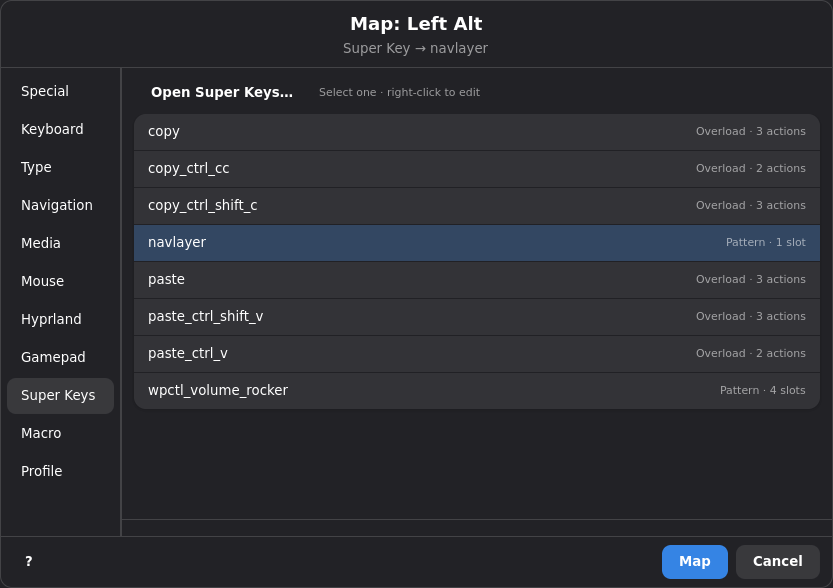
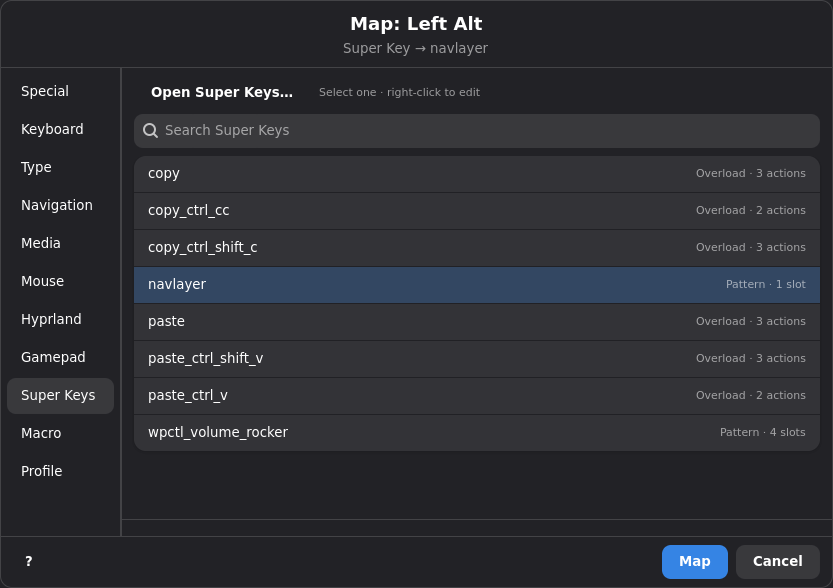
Add search bar to superkey selector tab
- Moves superkey_search_text to fuzzy_search.py for reuse
- Adds Gtk.SearchEntry with fuzzy filter to superkey tab
- Clears selection when search hides the selected row
- Updates key selector screenshot in docs

diff --git a/keymasq/gui/widgets/key_selector/superkey_tab.py b/keymasq/gui/widgets/key_selector/superkey_tab.py
@@ -8,6 +8,11 @@ gi.require_version("Gtk", "4.0")
 from gi.repository import Gtk  # pyright: ignore[reportAttributeAccessIssue]
 
 from keymasq.common.models import ActionType, MappingAction, SuperkeyConfig
+from keymasq.gui.widgets.fuzzy_search import (
+    fuzzy_query_matches,
+    install_listbox_fuzzy_filter,
+    superkey_search_text,
+)
 from keymasq.session.superkeys import SuperkeyManager
 
 from .compat import notify_session_reload_async
@@ -37,6 +42,16 @@ class SuperkeyTabMixin:
         toolbar_row.append(selection_hint)
         outer.append(toolbar_row)
 
+        self._superkey_search_entry = Gtk.SearchEntry()
+        self._superkey_search_entry.set_placeholder_text("Search Super Keys")
+        self._superkey_search_entry.set_tooltip_text(
+            "Filter Super Keys by name, description, or mode"
+        )
+        self._superkey_search_entry.set_margin_start(12)
+        self._superkey_search_entry.set_margin_end(12)
+        self._superkey_search_entry.set_margin_bottom(8)
+        outer.append(self._superkey_search_entry)
+
         scrolled = Gtk.ScrolledWindow()
         scrolled.set_policy(Gtk.PolicyType.NEVER, Gtk.PolicyType.AUTOMATIC)
         scrolled.set_vexpand(True)
@@ -48,6 +63,11 @@ class SuperkeyTabMixin:
         self._superkey_listbox.set_margin_start(12)
         self._superkey_listbox.set_margin_end(12)
         self._superkey_listbox.connect("row-selected", self._on_superkey_row_selected)
+        install_listbox_fuzzy_filter(
+            self._superkey_listbox,
+            self._superkey_search_entry,
+            after_filter_changed=self._after_superkey_search_filter_changed,
+        )
         scrolled.set_child(self._superkey_listbox)
         outer.append(scrolled)
 
@@ -102,6 +122,7 @@ class SuperkeyTabMixin:
         for config in self._superkey_list:
             row = Gtk.ListBoxRow()
             row._superkey_name = config.name
+            row._search_text = superkey_search_text(config, config.name)
             right_click = Gtk.GestureClick()
             right_click.set_button(3)
             right_click.connect("pressed", self._on_superkey_row_right_pressed, config.name)
@@ -129,10 +150,15 @@ class SuperkeyTabMixin:
             if self._selected_superkey and config.name == self._selected_superkey:
                 selected_row = row
 
-        if selected_row is not None:
+        self._superkey_listbox.invalidate_filter()
+
+        if selected_row is not None and fuzzy_query_matches(
+            self._superkey_search_entry.get_text(),
+            getattr(selected_row, "_search_text", ""),
+        ):
             self._superkey_listbox.select_row(selected_row)
         elif self._selected_superkey:
-            self._selected_superkey = None
+            self._clear_superkey_selection()
 
     def _describe_superkey_row(self, config: SuperkeyConfig) -> str:
         if config.mode.value == "overload":
@@ -180,6 +206,24 @@ class SuperkeyTabMixin:
             self._selected_superkey = None
         if self.stack.get_visible_child_name() == "superkey":
             self.map_btn.set_sensitive(self._selected_superkey is not None)
+
+    def _after_superkey_search_filter_changed(self) -> None:
+        selected_row = self._superkey_listbox.get_selected_row()
+        if selected_row is None:
+            self._clear_superkey_selection()
+            return
+        if fuzzy_query_matches(
+            self._superkey_search_entry.get_text(),
+            getattr(selected_row, "_search_text", ""),
+        ):
+            return
+        self._superkey_listbox.unselect_row(selected_row)
+        self._clear_superkey_selection()
+
+    def _clear_superkey_selection(self) -> None:
+        self._selected_superkey = None
+        if self.stack.get_visible_child_name() == "superkey":
+            self.map_btn.set_sensitive(False)
 
     def _on_superkey_map_clicked(self, btn) -> None:
         if not self._selected_superkey:

diff --git a/tests/gui/test_fuzzy_search.py b/tests/gui/test_fuzzy_search.py
@@ -2,7 +2,7 @@ from types import SimpleNamespace
 
 import pytest
 
-from tests.gui.support import collect_widgets
+from tests.gui.support import collect_widgets, iter_widget_children
 
 gi = pytest.importorskip("gi")
 
@@ -166,6 +166,77 @@ def test_key_selector_macro_refresh_clears_missing_selection(monkeypatch) -> Non
     dialog._populate_macro_listbox()
 
     assert dialog._selected_macro is None
+    assert dialog.map_btn.get_sensitive() is False
+
+
+def test_key_selector_superkey_search_clears_hidden_selection(
+    temp_config_dir,
+    monkeypatch,
+) -> None:
+    gi.require_version("Gtk", "4.0")
+    from gi.repository import Gtk
+
+    import keymasq.gui.widgets.key_selector_dialog as key_selector_dialog_module
+    from keymasq.common.models import (
+        ActionType,
+        MappingAction,
+        SuperkeyConfig,
+        SuperkeyMode,
+    )
+    from keymasq.gui.widgets.fuzzy_search import fuzzy_query_matches
+    from keymasq.gui.widgets.key_selector_dialog import KeySelectorDialog
+    from keymasq.session.superkeys import SuperkeyManager
+
+    monkeypatch.setattr(key_selector_dialog_module.GLib, "idle_add", lambda callback, *args: 0)
+    monkeypatch.setattr(
+        key_selector_dialog_module,
+        "session_request_async",
+        lambda _payload, _callback: None,
+    )
+
+    manager = SuperkeyManager()
+    manager.save_superkey(
+        SuperkeyConfig(
+            name="copy_paste",
+            description="Clipboard actions",
+            mode=SuperkeyMode.PATTERN,
+        )
+    )
+    manager.save_superkey(
+        SuperkeyConfig(
+            name="gamepad_layer",
+            description="Controller mode",
+            mode=SuperkeyMode.OVERLOAD,
+        )
+    )
+
+    dialog = KeySelectorDialog(
+        Gtk.Window(),
+        "Back",
+        current_action=MappingAction(
+            action_type=ActionType.SUPERKEY,
+            superkey_name="copy_paste",
+        ),
+    )
+    dialog.stack.set_visible_child_name("superkey")
+
+    assert dialog._superkey_search_entry.get_placeholder_text() == "Search Super Keys"
+    assert dialog._selected_superkey == "copy_paste"
+    assert dialog.map_btn.get_sensitive() is True
+
+    rows_by_name = {
+        row._superkey_name: row
+        for row in iter_widget_children(dialog._superkey_listbox)
+        if hasattr(row, "_superkey_name")
+    }
+    assert fuzzy_query_matches("clipboard", rows_by_name["copy_paste"]._search_text)
+    assert fuzzy_query_matches("controller", rows_by_name["gamepad_layer"]._search_text)
+    assert fuzzy_query_matches("overload", rows_by_name["gamepad_layer"]._search_text)
+    assert not fuzzy_query_matches("controller", rows_by_name["copy_paste"]._search_text)
+
+    dialog._superkey_search_entry.set_text("controller")
+
+    assert dialog._selected_superkey is None
     assert dialog.map_btn.get_sensitive() is False
 
 

diff --git a/keymasq/gui/widgets/superkey_dialog.py b/keymasq/gui/widgets/superkey_dialog.py
@@ -25,7 +25,10 @@ from keymasq.common.models import (
 from keymasq.gui.widgets.action_labels import describe_mapping_action_verbose
 from keymasq.gui.widgets.dialog_sizing import parent_constrained_dialog_width
 from keymasq.gui.widgets.docs_links import docs_page_url
-from keymasq.gui.widgets.fuzzy_search import install_listbox_fuzzy_filter
+from keymasq.gui.widgets.fuzzy_search import (
+    install_listbox_fuzzy_filter,
+    superkey_search_text,
+)
 from keymasq.session.profiles import ProfileManager
 from keymasq.session.superkeys import SuperkeyManager
 
@@ -34,26 +37,6 @@ log = logging.getLogger("keymasq.gui.widgets.superkey_dialog")
 
 def _superkeys_docs_url() -> str:
     return docs_page_url("SUPERKEYS", version=__version__)
-
-
-def _superkey_search_text(config: SuperkeyConfig | None, name: str) -> str:
-    if config is None:
-        return name
-    return " ".join(
-        [
-            str(config.name or ""),
-            str(config.description or ""),
-            config.mode.value,
-            str(len(config.tap_actions)),
-            str(len(config.double_tap_actions)),
-            str(len(config.hold_actions)),
-            str(len(config.tap_hold_actions)),
-            str(len(config.overload_actions)),
-            str(len(config.overload_down_actions)),
-            str(len(config.overload_up_actions)),
-            "actions",
-        ]
-    )
 
 
 def _append_action_state_markers(label: str, action: object) -> str:
@@ -867,7 +850,7 @@ class SuperkeyDialog(Adw.Dialog):
             self.list_box.append(
                 self._build_saved_superkey_row(
                     name,
-                    _superkey_search_text(configs.get(name), name),
+                    superkey_search_text(configs.get(name), name),
                 )
             )
 

diff --git a/keymasq/gui/widgets/fuzzy_search.py b/keymasq/gui/widgets/fuzzy_search.py
@@ -7,6 +7,8 @@ gi.require_version("Gtk", "4.0")
 
 from gi.repository import Gtk  # pyright: ignore[reportAttributeAccessIssue]
 
+from keymasq.common.models import SuperkeyConfig
+
 _TOKEN_RE = re.compile(r"\w+", re.UNICODE)
 
 
@@ -76,6 +78,26 @@ def macro_search_text(macro: Mapping[str, object]) -> str:
         duration_us = 0
     duration_ms = duration_us // 1000
     return f"{macro.get('name', '')} {device_types} {event_count} events {duration_ms}ms"
+
+
+def superkey_search_text(config: SuperkeyConfig | None, name: str) -> str:
+    if config is None:
+        return name
+    return " ".join(
+        [
+            str(config.name or ""),
+            str(config.description or ""),
+            config.mode.value,
+            str(len(config.tap_actions)),
+            str(len(config.double_tap_actions)),
+            str(len(config.hold_actions)),
+            str(len(config.tap_hold_actions)),
+            str(len(config.overload_actions)),
+            str(len(config.overload_down_actions)),
+            str(len(config.overload_up_actions)),
+            "actions",
+        ]
+    )
 
 
 def install_listbox_fuzzy_filter(
